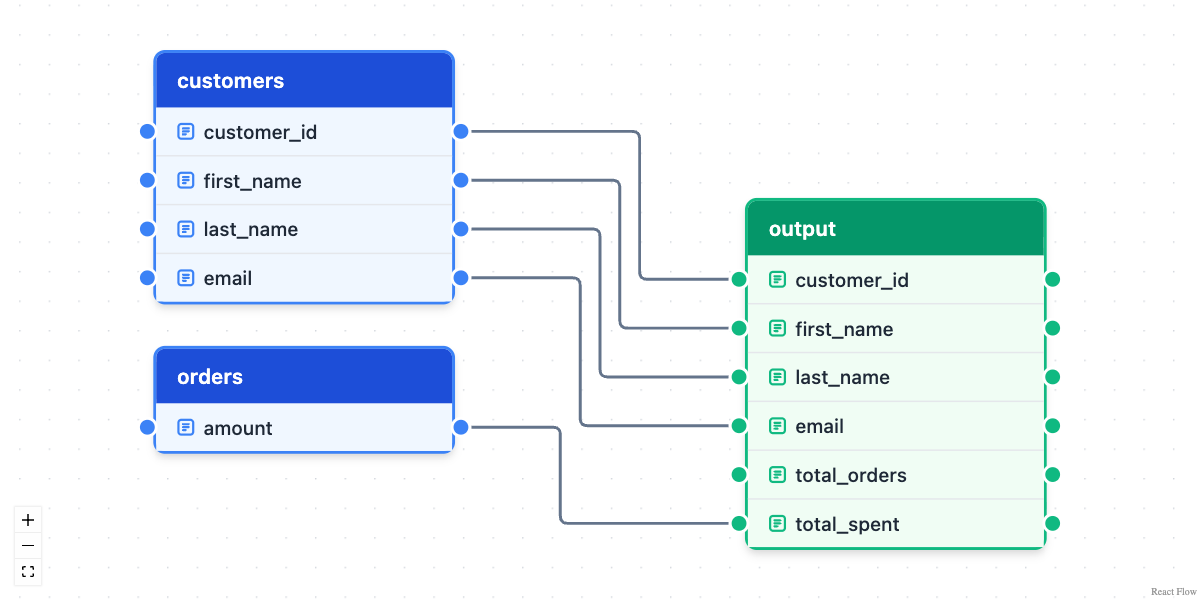
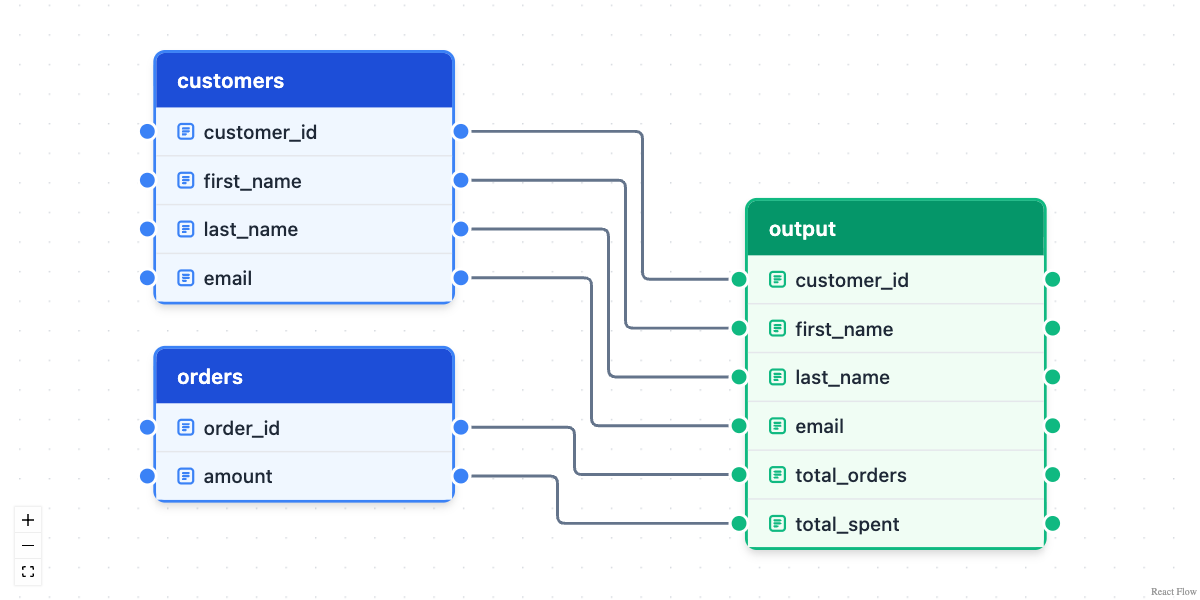
Deploying to gh-pages from @ tgerke/dplyneage@5d88cf4a71290773f4dfef1a4e5ef26d139efc35 🚀

Changed region(s): [[0.0925, 0.21, 0.6167, 0.87]]

diff --git a/articles/getting-started.html b/articles/getting-started.html
@@ -187,7 +187,7 @@ sources:</p>
 <span><span class="st">"</span><span class="op">)</span> <span class="op">|&gt;</span></span>
 <span>  <span class="fu"><a href="../reference/lineage_flow.html">lineage_flow</a></span><span class="op">(</span>height <span class="op">=</span> <span class="st">"300px"</span><span class="op">)</span></span></code></pre></div>
 <div id="htmlwidget-febe03efa1a2d8d52a86" style="width:100%;height:300px;" class="lineage_flow html-widget"></div>
-<script type="application/json" data-for="htmlwidget-febe03efa1a2d8d52a86">{"x":{"nodes":[{"id":"users","type":"tableNode","data":{"label":"users","columns":"email","tableType":"source","colors":{"bg":"#f0f7ff","border":"#3b82f6","header":"#1d4ed8"}},"position":{"x":0,"y":0},"draggable":true,"sourcePosition":"right","targetPosition":"left"},{"id":"archive","type":"tableNode","data":{"label":"archive","columns":"email","tableType":"source","colors":{"bg":"#f0f7ff","border":"#3b82f6","header":"#1d4ed8"}},"position":{"x":0,"y":200},"draggable":true,"sourcePosition":"right","targetPosition":"left"},{"id":"output","type":"tableNode","data":{"label":"output","columns":"email","tableType":"target","colors":{"bg":"#f0fdf4","border":"#10b981","header":"#059669"}},"position":{"x":400,"y":100},"draggable":true,"sourcePosition":"right","targetPosition":"left"}],"edges":[{"id":"e_users.email_to_output.email","source":"users","target":"output","sourceHandle":"email","targetHandle":"email","animated":false,"style":{"stroke":"#64748b","strokeWidth":2}},{"id":"e_archive.email_to_output.email","source":"archive","target":"output","sourceHandle":"email","targetHandle":"email","animated":false,"style":{"stroke":"#64748b","strokeWidth":2}}]},"evals":[],"jsHooks":[]}</script><p>The same applies to arithmetic across tables
+<script type="application/json" data-for="htmlwidget-febe03efa1a2d8d52a86">{"x":{"nodes":[{"id":"archive","type":"tableNode","data":{"label":"archive","columns":"email","tableType":"source","colors":{"bg":"#f0f7ff","border":"#3b82f6","header":"#1d4ed8"}},"position":{"x":0,"y":0},"draggable":true,"sourcePosition":"right","targetPosition":"left"},{"id":"users","type":"tableNode","data":{"label":"users","columns":"email","tableType":"source","colors":{"bg":"#f0f7ff","border":"#3b82f6","header":"#1d4ed8"}},"position":{"x":0,"y":200},"draggable":true,"sourcePosition":"right","targetPosition":"left"},{"id":"output","type":"tableNode","data":{"label":"output","columns":"email","tableType":"target","colors":{"bg":"#f0fdf4","border":"#10b981","header":"#059669"}},"position":{"x":400,"y":100},"draggable":true,"sourcePosition":"right","targetPosition":"left"}],"edges":[{"id":"e_archive.email_to_output.email","source":"archive","target":"output","sourceHandle":"email","targetHandle":"email","animated":false,"style":{"stroke":"#64748b","strokeWidth":2}},{"id":"e_users.email_to_output.email","source":"users","target":"output","sourceHandle":"email","targetHandle":"email","animated":false,"style":{"stroke":"#64748b","strokeWidth":2}}]},"evals":[],"jsHooks":[]}</script><p>The same applies to arithmetic across tables
 (<code>o.amount * r.rate</code>), <code>CASE</code> expressions, and
 both branches of a <code>UNION</code>. dbplyr pipelines get the same
 treatment: a <code><a href="https://dplyr.tidyverse.org/reference/mutate-joins.html" class="external-link">full_join()</a></code> key column traces to both sides,
@@ -359,12 +359,12 @@ it:</p>
 <span></span>
 <span><span class="co"># Everything upstream of total_spent</span></span>
 <span><span class="fu">igraph</span><span class="fu">::</span><span class="fu"><a href="https://r.igraph.org/reference/subcomponent.html" class="external-link">subcomponent</a></span><span class="op">(</span><span class="va">g</span>, <span class="st">"output.total_spent"</span>, mode <span class="op">=</span> <span class="st">"in"</span><span class="op">)</span></span>
-<span><span class="co">#&gt; + 2/6 vertices, named, from 2435c60:</span></span>
+<span><span class="co">#&gt; + 2/6 vertices, named, from 06ced44:</span></span>
 <span><span class="co">#&gt; [1] output.total_spent orders.amount</span></span>
 <span></span>
 <span><span class="co"># Everything downstream of orders.amount</span></span>
 <span><span class="fu">igraph</span><span class="fu">::</span><span class="fu"><a href="https://r.igraph.org/reference/subcomponent.html" class="external-link">subcomponent</a></span><span class="op">(</span><span class="va">g</span>, <span class="st">"orders.amount"</span>, mode <span class="op">=</span> <span class="st">"out"</span><span class="op">)</span></span>
-<span><span class="co">#&gt; + 2/6 vertices, named, from 2435c60:</span></span>
+<span><span class="co">#&gt; + 2/6 vertices, named, from 06ced44:</span></span>
 <span><span class="co">#&gt; [1] orders.amount      output.total_spent</span></span></code></pre></div>
 <p>Both functions return the serialized string when called without
 <code>path</code>, so they compose in pipes and tests.</p>

diff --git a/index.html b/index.html
@@ -101,7 +101,7 @@
 <span>  <span class="fu"><a href="https://dplyr.tidyverse.org/reference/mutate-joins.html" class="external-link">left_join</a></span><span class="op">(</span><span class="fu"><a href="https://dplyr.tidyverse.org/reference/tbl.html" class="external-link">tbl</a></span><span class="op">(</span><span class="va">con</span>, <span class="st">"orders"</span><span class="op">)</span>, by <span class="op">=</span> <span class="st">"customer_id"</span><span class="op">)</span> <span class="op">|&gt;</span></span>
 <span>  <span class="fu"><a href="https://dplyr.tidyverse.org/reference/group_by.html" class="external-link">group_by</a></span><span class="op">(</span><span class="va">customer_id</span>, <span class="va">first_name</span>, <span class="va">last_name</span>, <span class="va">email</span><span class="op">)</span> <span class="op">|&gt;</span></span>
 <span>  <span class="fu"><a href="https://dplyr.tidyverse.org/reference/summarise.html" class="external-link">summarise</a></span><span class="op">(</span></span>
-<span>    total_orders <span class="op">=</span> <span class="fu"><a href="https://dplyr.tidyverse.org/reference/context.html" class="external-link">n</a></span><span class="op">(</span><span class="op">)</span>,</span>
+<span>    total_orders <span class="op">=</span> <span class="fu"><a href="https://dplyr.tidyverse.org/reference/n_distinct.html" class="external-link">n_distinct</a></span><span class="op">(</span><span class="va">order_id</span><span class="op">)</span>,</span>
 <span>    total_spent <span class="op">=</span> <span class="fu"><a href="https://rdrr.io/r/base/sum.html" class="external-link">sum</a></span><span class="op">(</span><span class="va">amount</span>, na.rm <span class="op">=</span> <span class="cn">TRUE</span><span class="op">)</span>,</span>
 <span>    .groups <span class="op">=</span> <span class="st">"drop"</span></span>
 <span>  <span class="op">)</span> <span class="op">|&gt;</span></span>
@@ -149,7 +149,7 @@
 <span><span class="op">)</span></span>
 <span></span>
 <span><span class="fu"><a href="reference/lineage_flow.html">lineage_flow</a></span><span class="op">(</span><span class="va">nodes</span>, <span class="va">edges</span>, height <span class="op">=</span> <span class="st">"600px"</span><span class="op">)</span></span>
-<span><span class="co">#&gt; file:////private/var/folders/fw/0d9nr9951q57f0d5l6qc1j200000gn/T/Rtmpq1Cdu2/file4ca93fdc7236/widget4ca921ce57fb.html screenshot completed</span></span></code></pre></div>
+<span><span class="co">#&gt; file:////private/var/folders/fw/0d9nr9951q57f0d5l6qc1j200000gn/T/RtmppTmRFr/file65ce6b613dea/widget65ce3d2804b9.html screenshot completed</span></span></code></pre></div>
 <p><img src="reference/figures/README-unnamed-chunk-4-1.png" alt="Hand-built lineage diagram showing the customers and orders source tables in blue connected to a customer_summary target table in green, with a SUM() label on the total_spent edge"></p>
 <p>Table types follow the color conventions used by dbt and SQLMesh:</p>
 <table class="table">
@@ -263,7 +263,7 @@
 <span></span>
 <span><span class="va">g</span> <span class="op">&lt;-</span> <span class="fu">igraph</span><span class="fu">::</span><span class="fu"><a href="https://r.igraph.org/reference/read_graph.html" class="external-link">read_graph</a></span><span class="op">(</span><span class="va">path</span>, format <span class="op">=</span> <span class="st">"graphml"</span><span class="op">)</span></span>
 <span><span class="fu">igraph</span><span class="fu">::</span><span class="fu"><a href="https://r.igraph.org/reference/subcomponent.html" class="external-link">subcomponent</a></span><span class="op">(</span><span class="va">g</span>, <span class="st">"output.total_spent"</span>, mode <span class="op">=</span> <span class="st">"in"</span><span class="op">)</span></span>
-<span><span class="co">#&gt; + 2/6 vertices, named, from 3465a27:</span></span>
+<span><span class="co">#&gt; + 2/6 vertices, named, from a53d4b6:</span></span>
 <span><span class="co">#&gt; [1] output.total_spent orders.amount</span></span></code></pre></div>
 </div>
 <div class="section level2">

diff --git a/reference/lineage_graphml.html b/reference/lineage_graphml.html
@@ -146,7 +146,7 @@ string is returned invisibly.</p></dd>
 <span class="r-in"><span><span class="fu">lineage_graphml</span><span class="op">(</span><span class="va">lineage</span>, path <span class="op">=</span> <span class="va">path</span><span class="op">)</span></span></span>
 <span class="r-in"><span><span class="va">g</span> <span class="op">&lt;-</span> <span class="fu">igraph</span><span class="fu">::</span><span class="fu"><a href="https://r.igraph.org/reference/read_graph.html" class="external-link">read_graph</a></span><span class="op">(</span><span class="va">path</span>, format <span class="op">=</span> <span class="st">"graphml"</span><span class="op">)</span></span></span>
 <span class="r-in"><span><span class="fu">igraph</span><span class="fu">::</span><span class="fu"><a href="https://r.igraph.org/reference/subcomponent.html" class="external-link">subcomponent</a></span><span class="op">(</span><span class="va">g</span>, <span class="st">"daily_totals.total"</span>, mode <span class="op">=</span> <span class="st">"in"</span><span class="op">)</span></span></span>
-<span class="r-out co"><span class="r-pr">#&gt;</span> + 2/3 vertices, named, from c429f15:</span>
+<span class="r-out co"><span class="r-pr">#&gt;</span> + 2/3 vertices, named, from 0a1b3f2:</span>
 <span class="r-out co"><span class="r-pr">#&gt;</span> [1] daily_totals.total orders.amount     </span>
 </code></pre></div>
     </div>

diff --git a/index.md b/index.md
@@ -67,7 +67,7 @@ tbl(con, "customers") |>
   left_join(tbl(con, "orders"), by = "customer_id") |>
   group_by(customer_id, first_name, last_name, email) |>
   summarise(
-    total_orders = n(),
+    total_orders = n_distinct(order_id),
     total_spent = sum(amount, na.rm = TRUE),
     .groups = "drop"
   ) |>
@@ -135,7 +135,7 @@ edges <- list(
 )
 
 lineage_flow(nodes, edges, height = "600px")
-#> file:////private/var/folders/fw/0d9nr9951q57f0d5l6qc1j200000gn/T/Rtmpq1Cdu2/file4ca93fdc7236/widget4ca921ce57fb.html screenshot completed
+#> file:////private/var/folders/fw/0d9nr9951q57f0d5l6qc1j200000gn/T/RtmppTmRFr/file65ce6b613dea/widget65ce3d2804b9.html screenshot completed
 ```
 
 ![Hand-built lineage diagram showing the customers and orders source
@@ -268,7 +268,7 @@ lineage_graphml(lineage, path)
 
 g <- igraph::read_graph(path, format = "graphml")
 igraph::subcomponent(g, "output.total_spent", mode = "in")
-#> + 2/6 vertices, named, from 3465a27:
+#> + 2/6 vertices, named, from a53d4b6:
 #> [1] output.total_spent orders.amount
 ```
 

diff --git a/articles/getting-started.md b/articles/getting-started.md
@@ -320,12 +320,12 @@ g <- igraph::read_graph(path, format = "graphml")
 
 # Everything upstream of total_spent
 igraph::subcomponent(g, "output.total_spent", mode = "in")
-#> + 2/6 vertices, named, from 2435c60:
+#> + 2/6 vertices, named, from 06ced44:
 #> [1] output.total_spent orders.amount
 
 # Everything downstream of orders.amount
 igraph::subcomponent(g, "orders.amount", mode = "out")
-#> + 2/6 vertices, named, from 2435c60:
+#> + 2/6 vertices, named, from 06ced44:
 #> [1] orders.amount      output.total_spent
 ```
 

diff --git a/reference/lineage_graphml.md b/reference/lineage_graphml.md
@@ -94,6 +94,6 @@ path <- tempfile(fileext = ".graphml")
 lineage_graphml(lineage, path = path)
 g <- igraph::read_graph(path, format = "graphml")
 igraph::subcomponent(g, "daily_totals.total", mode = "in")
-#> + 2/3 vertices, named, from c429f15:
+#> + 2/3 vertices, named, from 0a1b3f2:
 #> [1] daily_totals.total orders.amount     
 ```